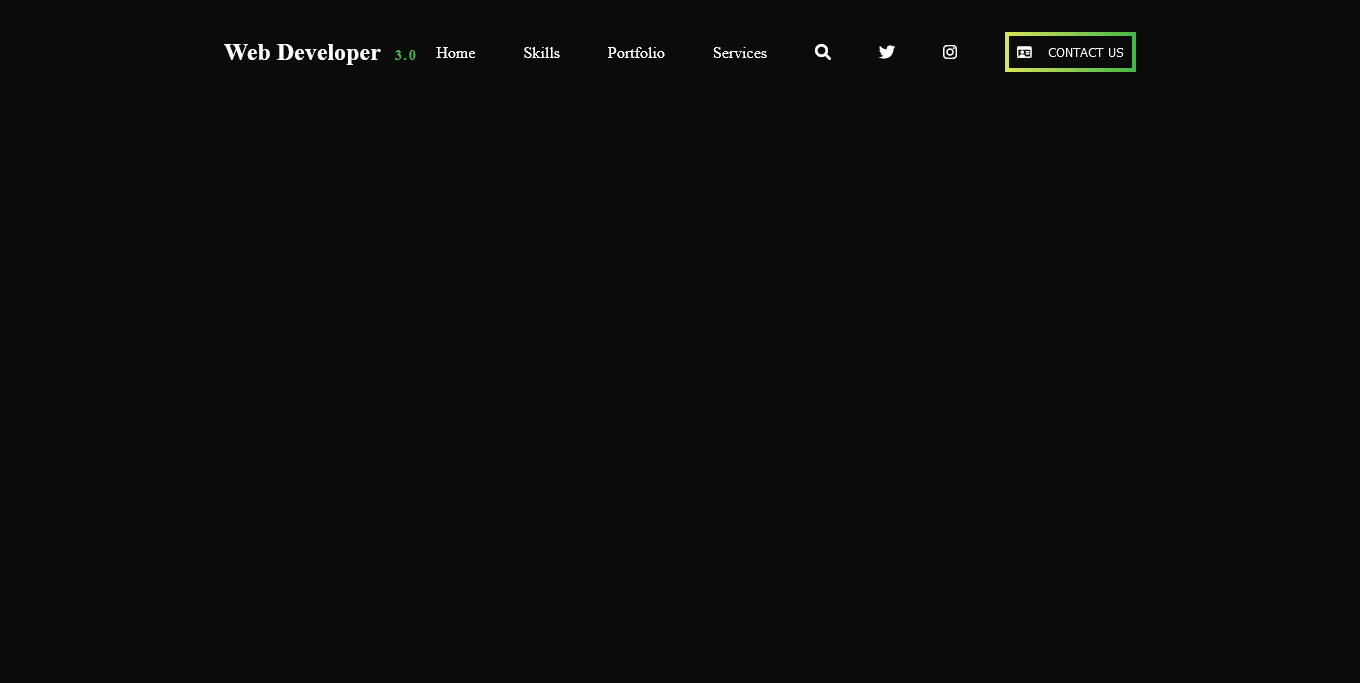
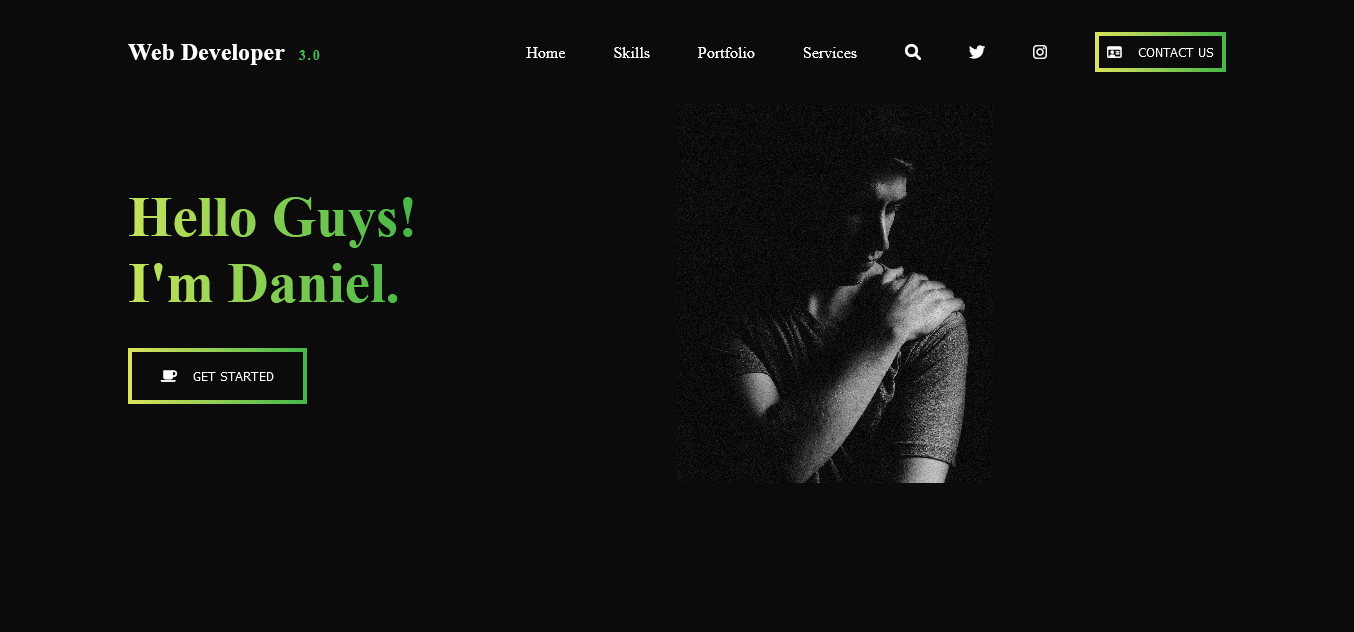
Sección Hero modo Escritorio Finalizado

diff --git a/css/style.css b/css/style.css
@@ -45,7 +45,7 @@ ul {
 }
 
 .defaultMargin {
-  margin: 0 14rem;
+  margin: 0 8rem;
 }
 
 button {
@@ -77,7 +77,7 @@ button i {
 /*         Mixins                     */
 /* ******************** */
 /* ******************** */
-/*            Navbar Style             */
+/*         Navbar Style            */
 /* ******************** */
 .navbar {
   /* background: rgb(25, 5, 44); */
@@ -143,5 +143,54 @@ button i {
 
 .navbar .links ul button {
   padding: 0.5rem;
+}
+
+/* ******************** */
+/*          Hero Style              */
+/* ******************** */
+.hero {
+  display: -ms-grid;
+  display: grid;
+  -ms-grid-columns: 50% 50%;
+      grid-template-columns: 50% 50%;
+  height: 60vh;
+  overflow: hidden;
+}
+
+.hero .content {
+  display: -webkit-box;
+  display: -ms-flexbox;
+  display: flex;
+  -webkit-box-orient: vertical;
+  -webkit-box-direction: normal;
+      -ms-flex-direction: column;
+          flex-direction: column;
+  -webkit-box-align: start;
+      -ms-flex-align: start;
+          align-items: flex-start;
+  -webkit-box-pack: center;
+      -ms-flex-pack: center;
+          justify-content: center;
+}
+
+.hero .content .title {
+  background: var(--gradient);
+  -webkit-background-clip: text;
+  -webkit-text-fill-color: transparent;
+  font-size: 6vh;
+  margin-bottom: 2rem;
+}
+
+.hero .image {
+  position: relative;
+}
+
+.hero .image img {
+  position: absolute;
+  bottom: 0;
+  height: 85vh;
+  width: 50vh;
+  -o-object-fit: cover;
+     object-fit: cover;
 }
 /*# sourceMappingURL=style.css.map */

diff --git a/style.scss b/style.scss
@@ -44,7 +44,7 @@ ul {
 }
 
 .defaultMargin {
-    margin: 0 14rem;
+    margin: 0 8rem;
 }
 
 button {
@@ -80,7 +80,7 @@ button {
 }
 
 /* ******************** */
-/*            Navbar Style             */
+/*         Navbar Style            */
 /* ******************** */
 .navbar {
     /* background: rgb(25, 5, 44); */
@@ -141,6 +141,41 @@ button {
             }
         }
 
+    }
+}
+
+/* ******************** */
+/*          Hero Style              */
+/* ******************** */
+.hero {
+    display: grid;
+    grid-template-columns: 50% 50%;
+    height: 60vh;
+    overflow: hidden;
+
+    .content {
+        display: flex;
+        flex-direction: column;
+        align-items: flex-start;
+        justify-content: center;
+
+        .title {
+            @include gradientTex;
+            font-size: 6vh;
+            margin-bottom: 2rem;
+        }
+    }
+
+    .image {
+        position: relative;
+        
+        img {
+            position: absolute;
+            bottom: 0;
+            height: 85vh;
+            width: 50vh;
+            object-fit: cover;
+        }
     }
 }
 

diff --git a/index.html b/index.html
@@ -17,6 +17,7 @@
             <i class="fas fa-angle-up"></i>
         </div> -->
 
+        <!-- Start from the Navbar Section -->
         <nav class="navbar defaultMargin">
 
             <div class="brand__container">
@@ -50,8 +51,28 @@
             </div>
 
         </nav>
+        <!-- End from the Navbar Section -->
 
+        <!-- Start from the Hero Section -->
+        <section class="hero defaultMargin" id="home">
 
+            <div class="content">
+                <div class="title">
+                    <h1>Hello Guys!</h1>
+                    <h1>I'm Daniel.</h1>
+                </div>
+
+                <button>
+                    <i class="fas fa-coffee"></i> Get Started
+                </button>
+            </div>
+
+            <div class="image">
+                <img src="images/hero.jpg" alt="hero image">
+            </div>
+
+        </section>
+        <!-- End for the Hero Section -->
 
 
 
